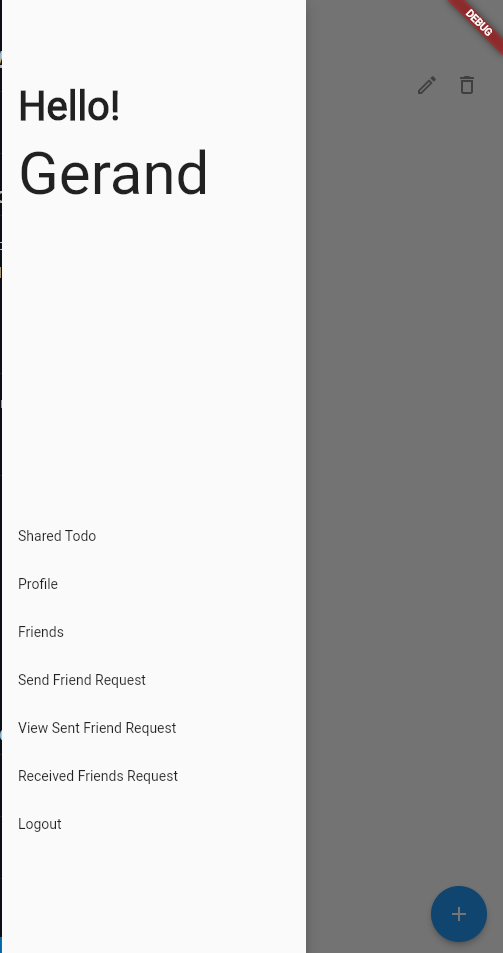
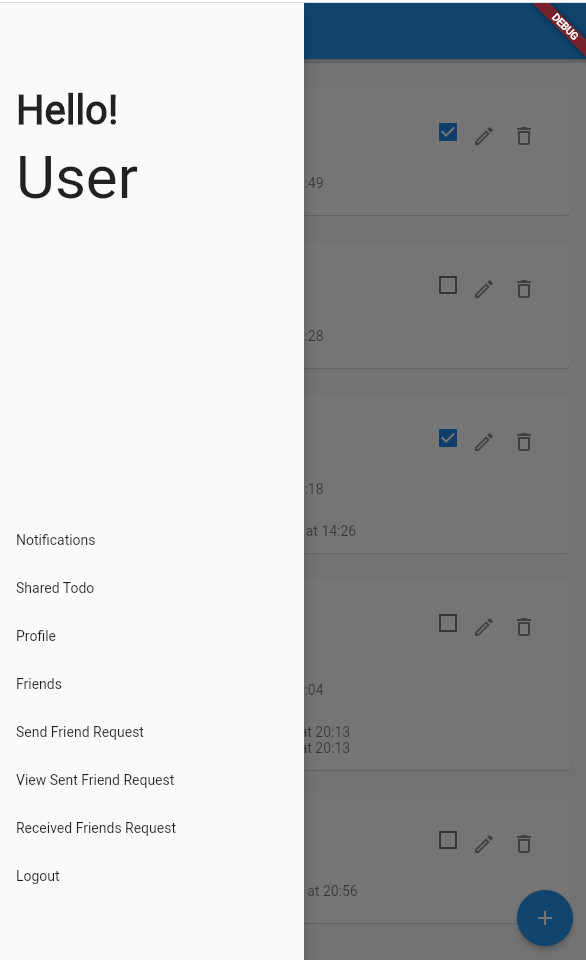
docs: updated readme

diff --git a/README.md b/README.md
@@ -7,7 +7,7 @@
 * Section : D3L
 
 ## App Description 
-A todo app that uses CRUD methodologies, authentication and authorization
+A todo app that uses CRUD methodologies, authentication and authorization. The App has a friends feature for sharing of the todos. The app also allows picking of freinds for sharing of the todos.
 
 
 ## Screenshots
@@ -15,7 +15,7 @@ A todo app that uses CRUD methodologies, authentication and authorization
 Onced logged in:
 
 #### Todo Page
-![Todo app page](screenshots/todopage.PNG)
+![Todo app page](screenshots\todopage.PNG)
 
 #### Todo app drawer
 
@@ -23,26 +23,31 @@ clicking the hamburget icon from the Todo page
 
 ![Todo app drawer](screenshots/Drawer.PNG)
 
-####  Create Todo
+#### Friends
 
-clicking the add icon fromthe todo page
+clicking the add icon from the todo page
 
-![Create todo](screenshots/createtodo.PNG)
+![friends todo](screenshots\friends.PNG)
 
 ####  UserProfile Todo
-
-![profile page](screenshots/profile.PNG)
+This shows the notifications of the user
+![notification page](screenshots\notification.PNG)
 
 ## Things that you did in the code
-
+* Friends feature: Add add Unfriend friends with friend request.
+* Todo: the user can chooose the todo that will be share to. The user can only pick from there friends list
+* Notification: There will ba a notification page that will be shown. THe deadline nearing, Accepted friend request and the edited todos
 
 
 ## Challenges faced
+* challenges face include getting the user's id form the data base
+* Understanding Streams and Future builder.
 
 ## Test Cases
-
-
 ### Happy Paths
+* Get if the widget exist for the  log in and sign up
+* If all of the user's input are valid
 
 
 ### Unhapppy Paths
+* having null nad invalid input for the login and sign up page
